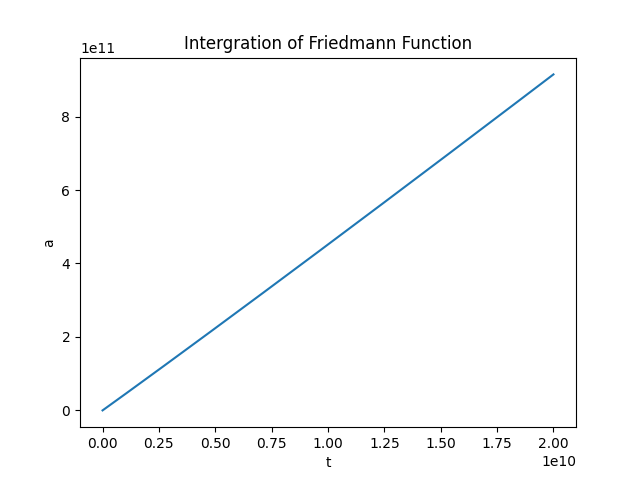
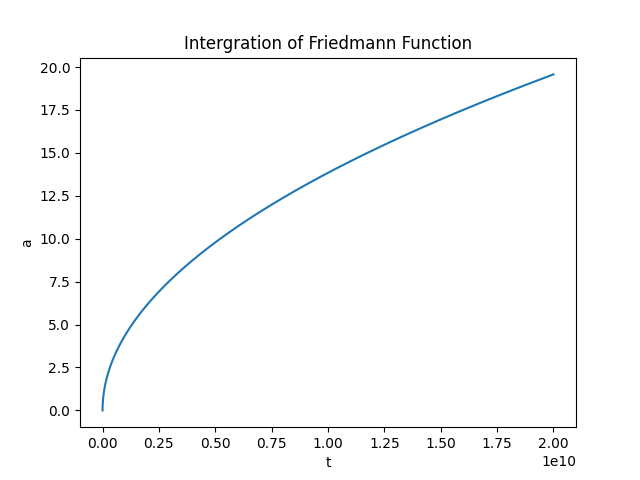
renew

diff --git a/homework1/arbitrary.py b/homework1/arbitrary.py
@@ -2,17 +2,17 @@ import math
 from numpy import arange
 from matplotlib import pyplot as plt 
 
-def rho(a,adot,t):
-    return 1 
+def rho(a,t):
+    return 1.5*0.0001/a**3+1/a**4
 
-def k(a,adot,t):
-    return 1
+def k(a,t):
+    return 0
 
-def lam(a,adot,t):
-    return 1
+def lam(a,t):
+    return 0
 
-def F(a, adot, t):
-    return math.sqrt((a**2)*8*math.pi*6.754*((10)**(-11))*rho(a,adot,t)/3-k(a,adot,t)+lam(a,adot,t)*a*a/3)
+def F(a,t):
+    return math.sqrt((a**2)*8*math.pi*6.754*((10)**(-11))*rho(a,t)/3-k(a,t)+lam(a,t)*a*a/3)
 
 sta = 0 #starting time
 en = 5 #ending time
@@ -21,29 +21,24 @@ h = (en-sta)/N
 
 tpoints = arange(sta,en,h) 
 apoints = []
-adotpoints = []
 
-y = 0#a(sta)
-u = 0#adot(sta)
+
+y = 0.001#a(sta)
+
 
 for x in tpoints: #Runge-Kutta
     apoints.append(y)
-    adotpoints.append(u)
 
-    m1 = h*u
-    k1 = h*F(y, u, x)  
+    k1 = h*F(y, x)  
 
-    m2 = h*(u + 0.5*k1)
-    k2 = h*F(y+0.5*m1, u+0.5*k1, x+0.5*h)
+    k2 = h*F(y+0.5*k1, x+0.5*h)
 
-    m3 = h*(u + 0.5*k2)
-    k3 = h*F(y+0.5*m2, u+0.5*k2, x+0.5*h)
+    k3 = h*F(y+0.5*k2, x+0.5*h)
 
-    m4 = h*(u + k3)
-    k4 = h*F(y+m3, u+k3, x+h)
+    k4 = h*F(y+k3, x+h)
 
-    y += (m1 + 2*m2 + 2*m3 + m4)/6
-    u += (k1 + 2*k2 + 2*k3 + k4)/6
+    y += (k1 + 2*k2 + 2*k3 + k4)/6
+    
 plt.title("Intergration of Friedmann Function") 
 plt.xlabel("t") 
 plt.ylabel("a") 

diff --git a/homework1/Einstein-long-period.py b/homework1/Einstein-long-period.py
@@ -1,39 +1,22 @@
 import math
 from numpy import arange
 from matplotlib import pyplot as plt 
-def F(a, adot, t):
+from scipy import integrate
+def F(a):
     return math.sqrt(1.5*0.0001/(a**2)+1/a)*67.66*365*24*60*60/(3.26*9.46*((10)**(12))) 
 
-sta = 0 #starting time
+sta = 1 #starting time
 en = 2*((10)**(10)) #ending time
 N =50000#step number
 h = (en-sta)/N
 
 tpoints = arange(sta,en,h) 
 apoints = []
-adotpoints = []
 
-y = 0.1#a(sta)
-u = 0#adot(sta)
+for x in tpoints: 
+    v, err = integrate.quad(F, sta, x)
+    apoints.append(v)
 
-for x in tpoints: #Runge-Kutta
-    apoints.append(y)
-    adotpoints.append(u)
-
-    m1 = h*u
-    k1 = h*F(y, u, x)  
-
-    m2 = h*(u + 0.5*k1)
-    k2 = h*F(y+0.5*m1, u+0.5*k1, x+0.5*h)
-
-    m3 = h*(u + 0.5*k2)
-    k3 = h*F(y+0.5*m2, u+0.5*k2, x+0.5*h)
-
-    m4 = h*(u + k3)
-    k4 = h*F(y+m3, u+k3, x+h)
-
-    y += (m1 + 2*m2 + 2*m3 + m4)/6
-    u += (k1 + 2*k2 + 2*k3 + k4)/6
 plt.title("Intergration of Friedmann Function") 
 plt.xlabel("t") 
 plt.ylabel("a") 

diff --git a/homework1/matter-dominated.py b/homework1/matter-dominated.py
@@ -1,4 +1,3 @@
-import math
 from numpy import arange
 from matplotlib import pyplot as plt
 sta = 0 #starting time
@@ -7,7 +6,6 @@ N =5000 #step number
 h = (en-sta)/N
 tpoints = arange(sta,en,h) 
 apoints = []
-y = 0#a(sta)
 for x in tpoints:
     y=x**(2/3) 
     apoints.append(y)

diff --git a/homework1/dark-energy-dominated.py b/homework1/dark-energy-dominated.py
@@ -7,7 +7,6 @@ N =5000 #step number
 h = (en-sta)/N
 tpoints = arange(sta,en,h) 
 apoints = []
-y = 0#a(sta)
 for x in tpoints:
     y=math.exp(x*math.sqrt(0.6899)*67.66*365*24*60*60/(3.26*9.46*((10)**(12))))
     apoints.append(y)

diff --git a/homework1/curvature-dominated.py b/homework1/curvature-dominated.py
@@ -8,7 +8,7 @@ h = (en-sta)/N
 tpoints = arange(sta,en,h) 
 apoints = []
 for x in tpoints:
-    y=x**(1/2) 
+    y=x
     apoints.append(y)
 plt.title("Intergration of Friedmann Function") 
 plt.xlabel("t") 
